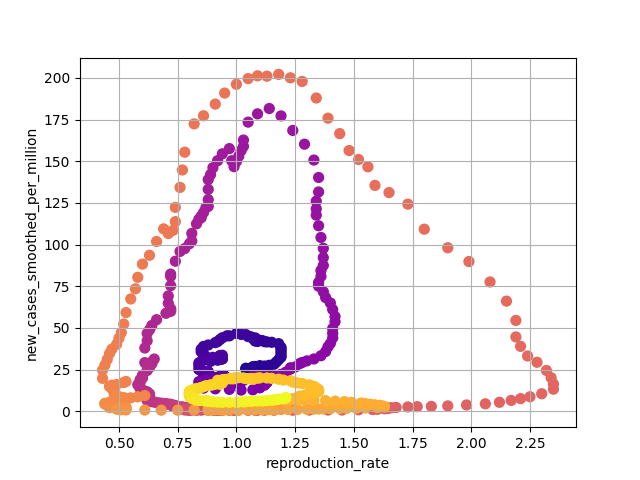
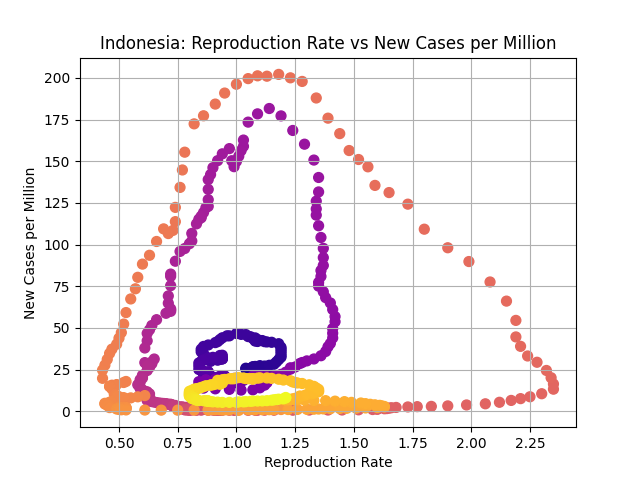
Add proper titles and labels to all plots for better readability

Changed region(s): [[0.1562, 0.0625, 0.875, 0.125], [0.0312, 0.2812, 0.0625, 0.75], [0.4062, 0.9375, 0.625, 1.0]]

diff --git a/covid_analysis.py b/covid_analysis.py
@@ -25,8 +25,12 @@ df2.reset_index(drop=True, inplace=True)
 df1=df1.iloc[len(df1)-720:]
 df2=df2.iloc[len(df2)-720:]
 
-plt.plot(df1['new_cases'])
-plt.plot(df2['new_cases'],'r')
+plt.plot(df1['new_cases'], label='Indonesia')
+plt.plot(df2['new_cases'],'r', label='United Kingdom')
+plt.title('Perbandingan Kasus Baru Harian: Indonesia vs United Kingdom')
+plt.xlabel('Hari')
+plt.ylabel('Jumlah Kasus Baru')
+plt.legend()
 plt.grid()
 plt.savefig('new_cases_comparison.png')
 plt.show()
@@ -55,11 +59,17 @@ df2=df2.iloc[len(df2)-xdays:]
 numbers=range(len(df1))
 
 df1.plot.scatter(x='reproduction_rate',y='new_cases_smoothed_per_million',s=50, c=numbers, colormap='plasma')
+plt.title('Indonesia: Reproduction Rate vs New Cases per Million')
+plt.xlabel('Reproduction Rate')
+plt.ylabel('New Cases per Million')
 plt.grid()
 plt.savefig('indonesia_reproduction_vs_cases_per_million.png')
 plt.show()
 
 df2.plot.scatter(x='reproduction_rate',y='new_cases_smoothed_per_million',s=50, c=numbers, colormap='plasma')
+plt.title('United Kingdom: Reproduction Rate vs New Cases per Million')
+plt.xlabel('Reproduction Rate')
+plt.ylabel('New Cases per Million')
 plt.grid()
 plt.savefig('uk_reproduction_vs_cases_per_million.png')
 plt.show()
@@ -88,11 +98,17 @@ df2=df2.iloc[len(df2)-xdays:]
 numbers=range(len(df1))
 
 df1.plot.scatter(x='reproduction_rate',y='people_fully_vaccinated_per_hundred',s=50, c=numbers, colormap='plasma')
+plt.title('Indonesia: Reproduction Rate vs Vaccination Rate (%)')
+plt.xlabel('Reproduction Rate')
+plt.ylabel('People Fully Vaccinated (%)')
 plt.grid()
 plt.savefig('indonesia_reproduction_vs_vaccination.png')
 plt.show()
 
 df2.plot.scatter(x='reproduction_rate',y='people_fully_vaccinated_per_hundred',s=50, c=numbers, colormap='plasma')
+plt.title('United Kingdom: Reproduction Rate vs Vaccination Rate (%)')
+plt.xlabel('Reproduction Rate')
+plt.ylabel('People Fully Vaccinated (%)')
 plt.grid()
 plt.savefig('uk_reproduction_vs_vaccination.png')
 plt.show()
@@ -121,11 +137,17 @@ df2=df2.iloc[len(df2)-xdays:]
 numbers=range(len(df1))
 
 df1.plot.scatter(x='new_cases_smoothed_per_million',y='people_fully_vaccinated_per_hundred',s=50, c=numbers, colormap='plasma')
+plt.title('Indonesia: New Cases per Million vs Vaccination Rate (%)')
+plt.xlabel('New Cases per Million')
+plt.ylabel('People Fully Vaccinated (%)')
 plt.grid()
 plt.savefig('indonesia_cases_per_million_vs_vaccination.png')
 plt.show()
 
 df2.plot.scatter(x='new_cases_smoothed_per_million',y='people_fully_vaccinated_per_hundred',s=50, c=numbers, colormap='plasma')
+plt.title('United Kingdom: New Cases per Million vs Vaccination Rate (%)')
+plt.xlabel('New Cases per Million')
+plt.ylabel('People Fully Vaccinated (%)')
 plt.grid()
 plt.savefig('uk_cases_per_million_vs_vaccination.png')
 plt.show()
@@ -149,11 +171,17 @@ numbers1=range(len(df1))
 numbers2=range(len(df2))
 
 df1.plot.scatter(x='reproduction_rate',y='weekly_hosp_admissions_per_million',s=50, c=numbers1, colormap='plasma')
+plt.title('Indonesia: Reproduction Rate vs Weekly Hospital Admissions per Million')
+plt.xlabel('Reproduction Rate')
+plt.ylabel('Weekly Hosp Admissions per Million')
 plt.grid()
 plt.savefig('indonesia_reproduction_vs_hospitalizations.png')
 plt.show()
 
 df2.plot.scatter(x='reproduction_rate',y='weekly_hosp_admissions_per_million',s=50, c=numbers2, colormap='plasma')
+plt.title('United Kingdom: Reproduction Rate vs Weekly Hospital Admissions per Million')
+plt.xlabel('Reproduction Rate')
+plt.ylabel('Weekly Hosp Admissions per Million')
 plt.grid()
 plt.savefig('uk_reproduction_vs_hospitalizations.png')
 plt.show()
@@ -177,11 +205,17 @@ numbers1=range(len(df1))
 numbers2=range(len(df2))
 
 df1.plot.scatter(x='new_cases_smoothed_per_million',y='weekly_hosp_admissions_per_million',s=50, c=numbers1, colormap='plasma')
+plt.title('Indonesia: New Cases per Million vs Weekly Hospital Admissions per Million')
+plt.xlabel('New Cases per Million')
+plt.ylabel('Weekly Hosp Admissions per Million')
 plt.grid()
 plt.savefig('indonesia_cases_per_million_vs_hospitalizations.png')
 plt.show()
 
 df2.plot.scatter(x='new_cases_smoothed_per_million',y='weekly_hosp_admissions_per_million',s=50, c=numbers2, colormap='plasma')
+plt.title('United Kingdom: New Cases per Million vs Weekly Hospital Admissions per Million')
+plt.xlabel('New Cases per Million')
+plt.ylabel('Weekly Hosp Admissions per Million')
 plt.grid()
 plt.savefig('uk_cases_per_million_vs_hospitalizations.png')
 plt.show()
@@ -205,11 +239,17 @@ numbers1=range(len(df_vac1))
 numbers2=range(len(df_vac2))
 
 df_vac1.plot.scatter(x='people_fully_vaccinated_per_hundred',y='weekly_hosp_admissions_per_million',s=50, c=numbers1, colormap='plasma')
+plt.title('Indonesia: Vaccination Rate (%) vs Weekly Hospital Admissions per Million')
+plt.xlabel('People Fully Vaccinated (%)')
+plt.ylabel('Weekly Hosp Admissions per Million')
 plt.grid()
 plt.savefig('indonesia_vaccination_vs_hospitalizations.png')
 plt.show()
 
 df_vac2.plot.scatter(x='people_fully_vaccinated_per_hundred',y='weekly_hosp_admissions_per_million',s=50, c=numbers2, colormap='plasma')
+plt.title('United Kingdom: Vaccination Rate (%) vs Weekly Hospital Admissions per Million')
+plt.xlabel('People Fully Vaccinated (%)')
+plt.ylabel('Weekly Hosp Admissions per Million')
 plt.grid()
 plt.savefig('uk_vaccination_vs_hospitalizations.png')
 plt.show()
@@ -240,8 +280,12 @@ print(reg.intercept_)
 
 y_pred=reg.predict(x_test)
 
-plt.plot(y_test)
-plt.plot(y_pred,'r')
+plt.plot(y_test, label='Actual')
+plt.plot(y_pred,'r', label='Predicted')
+plt.title('Linear Regression: Cases per Million Prediction from Vaccination')
+plt.xlabel('Test Samples')
+plt.ylabel('Cases per Million')
+plt.legend()
 plt.grid()
 plt.savefig('cases_per_million_prediction_linear.png')
 plt.show()
@@ -272,8 +316,12 @@ print(reg.intercept_)
 
 y_pred=reg.predict(x_test)
 
-plt.plot(y_test)
-plt.plot(y_pred,'r')
+plt.plot(y_test, label='Actual')
+plt.plot(y_pred,'r', label='Predicted')
+plt.title('Linear Regression: Cases per Million Prediction (Multivariate)')
+plt.xlabel('Test Samples')
+plt.ylabel('Cases per Million')
+plt.legend()
 plt.grid()
 plt.savefig('cases_per_million_prediction_linear_multi.png')
 plt.show()
@@ -293,8 +341,12 @@ forest_reg.fit(x_train, np.ravel(y_train))
 
 y_pred=forest_reg.predict(x_test)
 
-plt.plot(y_test)
-plt.plot(y_pred,'r')
+plt.plot(y_test, label='Actual')
+plt.plot(y_pred,'r', label='Predicted')
+plt.title('Random Forest: Cases per Million Prediction (Multivariate)')
+plt.xlabel('Test Samples')
+plt.ylabel('Cases per Million')
+plt.legend()
 plt.grid()
 plt.savefig('cases_per_million_prediction_rf_multi.png')
 plt.show()
